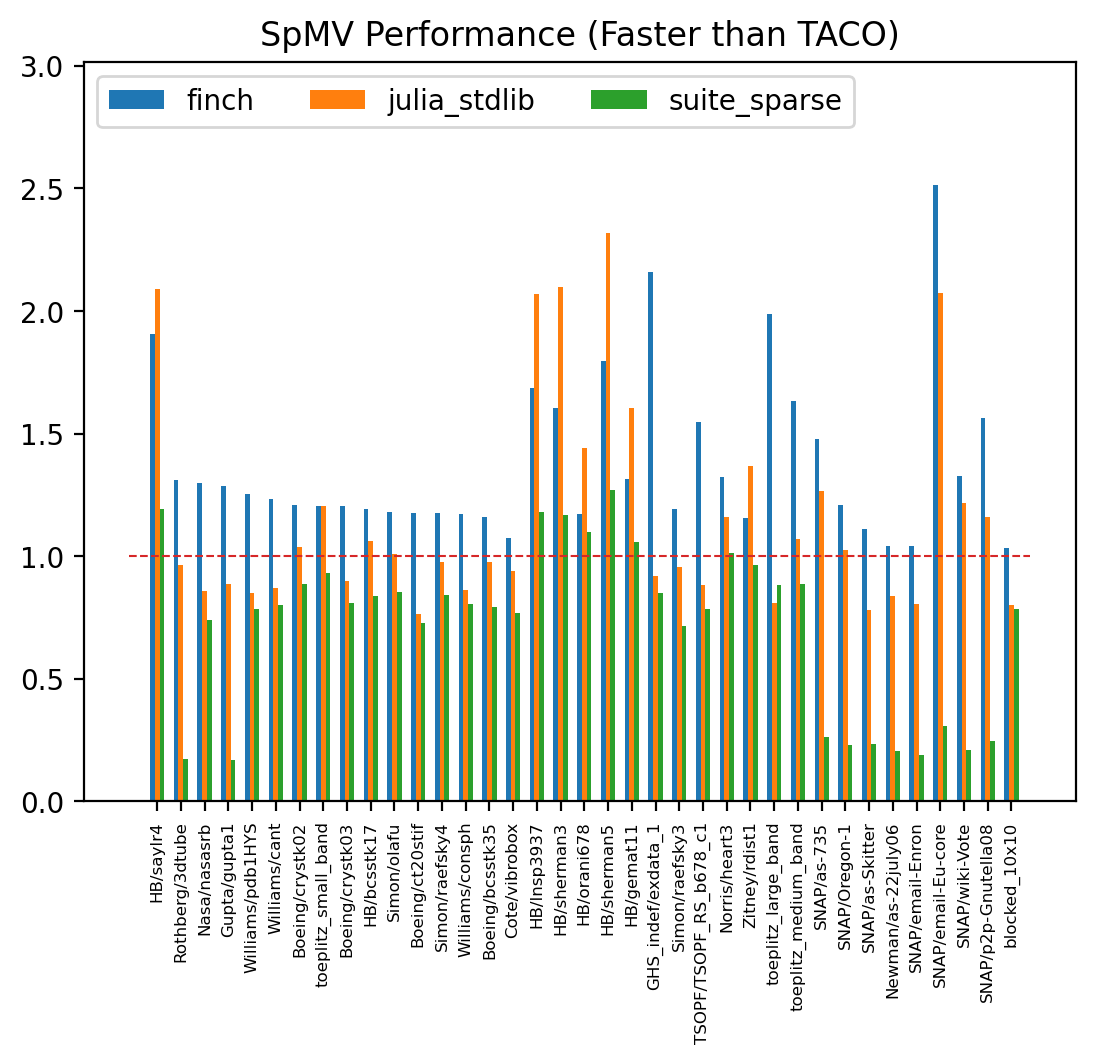
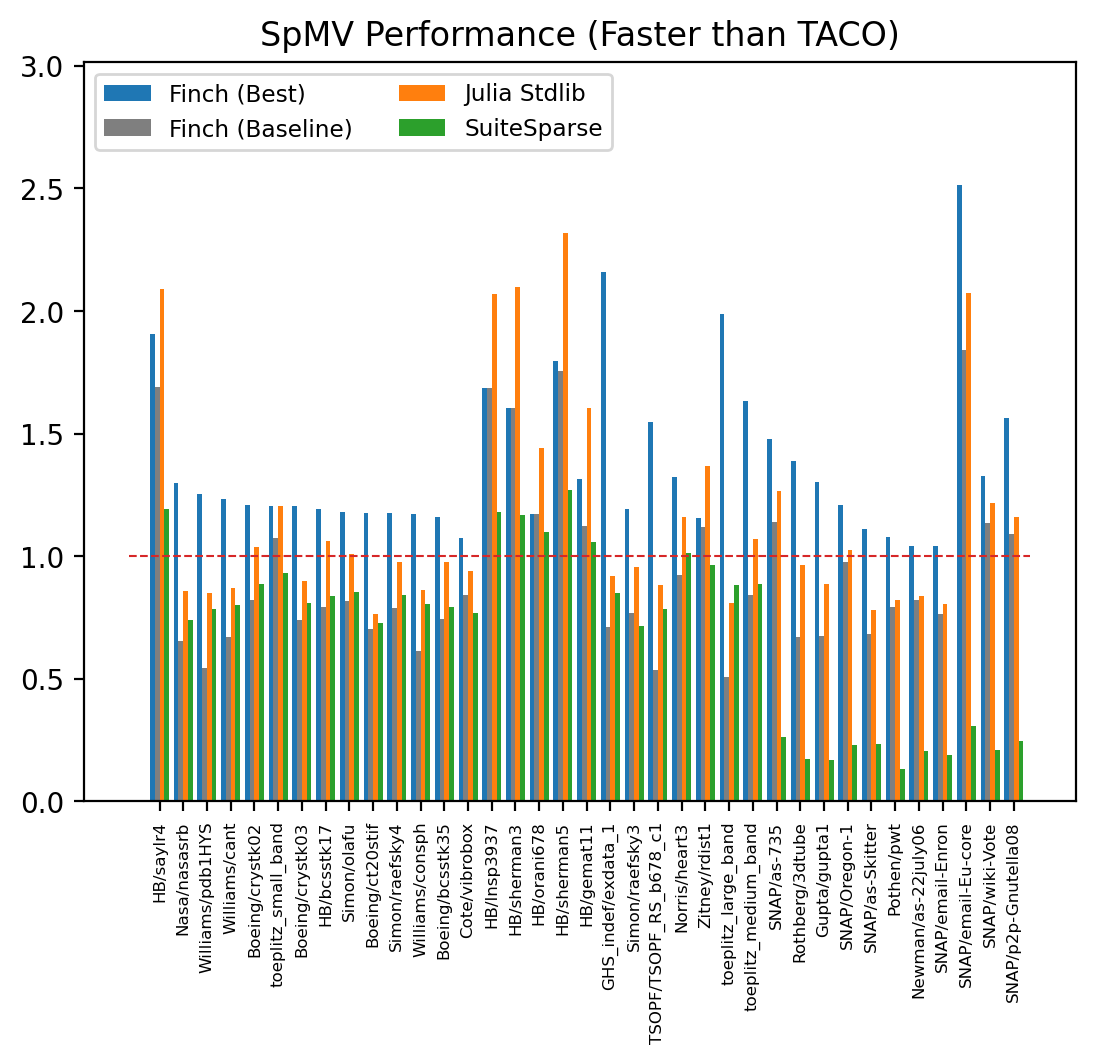
Modified chart script

Changed region(s): [[0.1242, 0.1863, 0.9315, 0.9624], [0.0621, 0.0621, 0.7763, 0.1552], [0.59, 0.2484, 0.621, 0.4036]]

diff --git a/spmv/chart.py b/spmv/chart.py
@@ -8,7 +8,7 @@ from collections import defaultdict
 RESULTS_FILE_PATH = "spmv_results_lanka.json"
 CHARTS_DIRECTORY = "spmv/charts/"
 FORMAT_ORDER = {
-    "finch": -1,
+    "finch_sym": -1,
     "finch_unsym": -2,
     "finch_unsym_row_maj": -3,
     "finch_vbl": -4,
@@ -27,7 +27,7 @@ FORMAT_ORDER = {
     "finch_blocked": -17,
 }
 FORMAT_LABELS = {
-    "finch": "Symmetric SparseList",
+    "finch_sym": "Symmetric SparseList",
     "finch_unsym": "SparseList",
     "finch_unsym_row_maj": "SparseList (Row-Major)",
     "finch_vbl": "Symmetric SparseVBL",
@@ -54,11 +54,16 @@ def all_formats_chart(ordered_by_format=False):
     for result in results:
         mtx = result["matrix"]
         method = result["method"]
+        time = result["time"]
 
+        if method == "finch_unsym":
+            # finch_baseline_time = data[mtx]["finch_baseline"]
+            # data[mtx]["finch_baseline"] = time if finch_baseline_time == 0 else min(time, finch_baseline_time)
+            data[mtx]["finch_baseline"] = time
         if "finch" in method and finch_formats[mtx] != method:
             continue
         method = "finch" if "finch" in method else method
-        data[mtx][method] = result["time"]
+        data[mtx][method] = time
 
     for mtx, times in data.items():
         ref_time = times["taco"]
@@ -83,17 +88,18 @@ def all_formats_chart(ordered_by_format=False):
 
     ordered_mtxs = [mtx for mtx, _ in ordered_data]
     labels = [FORMAT_LABELS[finch_formats[mtx]] for mtx, _ in ordered_data]
-    methods = ["finch", "julia_stdlib", "suite_sparse"]
-    colors = {"finch": "tab:blue", "julia_stdlib": "tab:orange", "suite_sparse": "tab:green"}
+    methods = ["finch", "finch_baseline", "julia_stdlib", "suite_sparse"]
+    legend_labels = ["Finch (Best)", "Finch (Baseline)", "Julia Stdlib", "SuiteSparse"]
+    colors = {"finch": "tab:blue", "finch_baseline": "tab:gray", "julia_stdlib": "tab:orange", "suite_sparse": "tab:green"}
 
     if ordered_by_format:
-        make_grouped_bar_chart(methods, ordered_mtxs[:splice_idx], faster_data, colors=colors, labeled_groups=["finch"], bar_labels_dict={"finch": labels[:splice_idx]}, title="SpMV Performance (Faster than TACO) Labeled")
-        make_grouped_bar_chart(methods, ordered_mtxs[splice_idx:], slower_data, colors=colors, labeled_groups=["finch"], bar_labels_dict={"finch": labels[splice_idx:]}, title="SpMV Performance (Slower than TACO) Labeled")
-        make_grouped_bar_chart(methods, ordered_mtxs[:splice_idx], faster_data, colors=colors, title="SpMV Performance (Faster than TACO)")
-        make_grouped_bar_chart(methods, ordered_mtxs[splice_idx:], slower_data, colors=colors, title="SpMV Performance (Slower than TACO)")
+        make_grouped_bar_chart(methods, ordered_mtxs[:splice_idx], faster_data, colors=colors, labeled_groups=["finch"], bar_labels_dict={"finch": labels[:splice_idx]}, title="SpMV Performance (Faster than TACO) Labeled", legend_labels=legend_labels, reference_label="TACO")
+        make_grouped_bar_chart(methods, ordered_mtxs[splice_idx:], slower_data, colors=colors, labeled_groups=["finch"], bar_labels_dict={"finch": labels[splice_idx:]}, title="SpMV Performance (Slower than TACO) Labeled", legend_labels=legend_labels, reference_label="TACO")
+        make_grouped_bar_chart(methods, ordered_mtxs[:splice_idx], faster_data, colors=colors, title="SpMV Performance (Faster than TACO)", legend_labels=legend_labels, reference_label="TACO")
+        make_grouped_bar_chart(methods, ordered_mtxs[splice_idx:], slower_data, colors=colors, title="SpMV Performance (Slower than TACO)", legend_labels=legend_labels, reference_label="TACO")
     else:
-        make_grouped_bar_chart(methods, ordered_mtxs[:splice_idx], faster_data, colors=colors, title="SpMV Performance Sorted (Faster than TACO)")
-        make_grouped_bar_chart(methods, ordered_mtxs[splice_idx:], slower_data, colors=colors, title="SpMV Performance Sorted (Slower than TACO)")
+        make_grouped_bar_chart(methods, ordered_mtxs[:splice_idx], faster_data, colors=colors, title="SpMV Performance Sorted (Faster than TACO)", legend_labels=legend_labels, reference_label="TACO")
+        make_grouped_bar_chart(methods, ordered_mtxs[splice_idx:], slower_data, colors=colors, title="SpMV Performance Sorted (Slower than TACO)", legend_labels=legend_labels, reference_label="TACO")
     
 
     # for mtx in mtxs:
@@ -179,7 +185,7 @@ def all_formats_for_matrix_chart(matrix):
     plt.close() 
 
 
-def make_grouped_bar_chart(labels, x_axis, data, colors = None, labeled_groups = [], title = "", y_label = "", bar_labels_dict={}):
+def make_grouped_bar_chart(labels, x_axis, data, colors = None, labeled_groups = [], title = "", y_label = "", bar_labels_dict={}, legend_labels=None, reference_label = ""):
     x = np.arange(len(data[labels[0]]))
     width = 0.2 
     multiplier = 0
@@ -202,10 +208,13 @@ def make_grouped_bar_chart(labels, x_axis, data, colors = None, labeled_groups =
     ax.set_title(title)
     ax.set_xticks(x + width * (len(labels) - 1)/2, x_axis)
     ax.tick_params(axis='x', which='major', labelsize=6, labelrotation=90)
-    ax.legend(loc='upper left', ncols=4)
+    if legend_labels:
+        ax.legend(legend_labels, loc='upper left', ncols=2, fontsize='small')
+    else:
+        ax.legend(loc='upper left', ncols=2, fontsize='small')
     ax.set_ylim(0, max_height + 0.5)
 
-    plt.plot([-1, len(x_axis)], [1, 1], linestyle='--', color="tab:red", linewidth=0.75)
+    plt.plot([-1, len(x_axis)], [1, 1], linestyle='--', color="tab:red", linewidth=0.75, label=reference_label)
 
     fig_file = title.lower().replace(" ", "_") + ".png"
     plt.savefig(CHARTS_DIRECTORY + fig_file, dpi=200, bbox_inches="tight")
